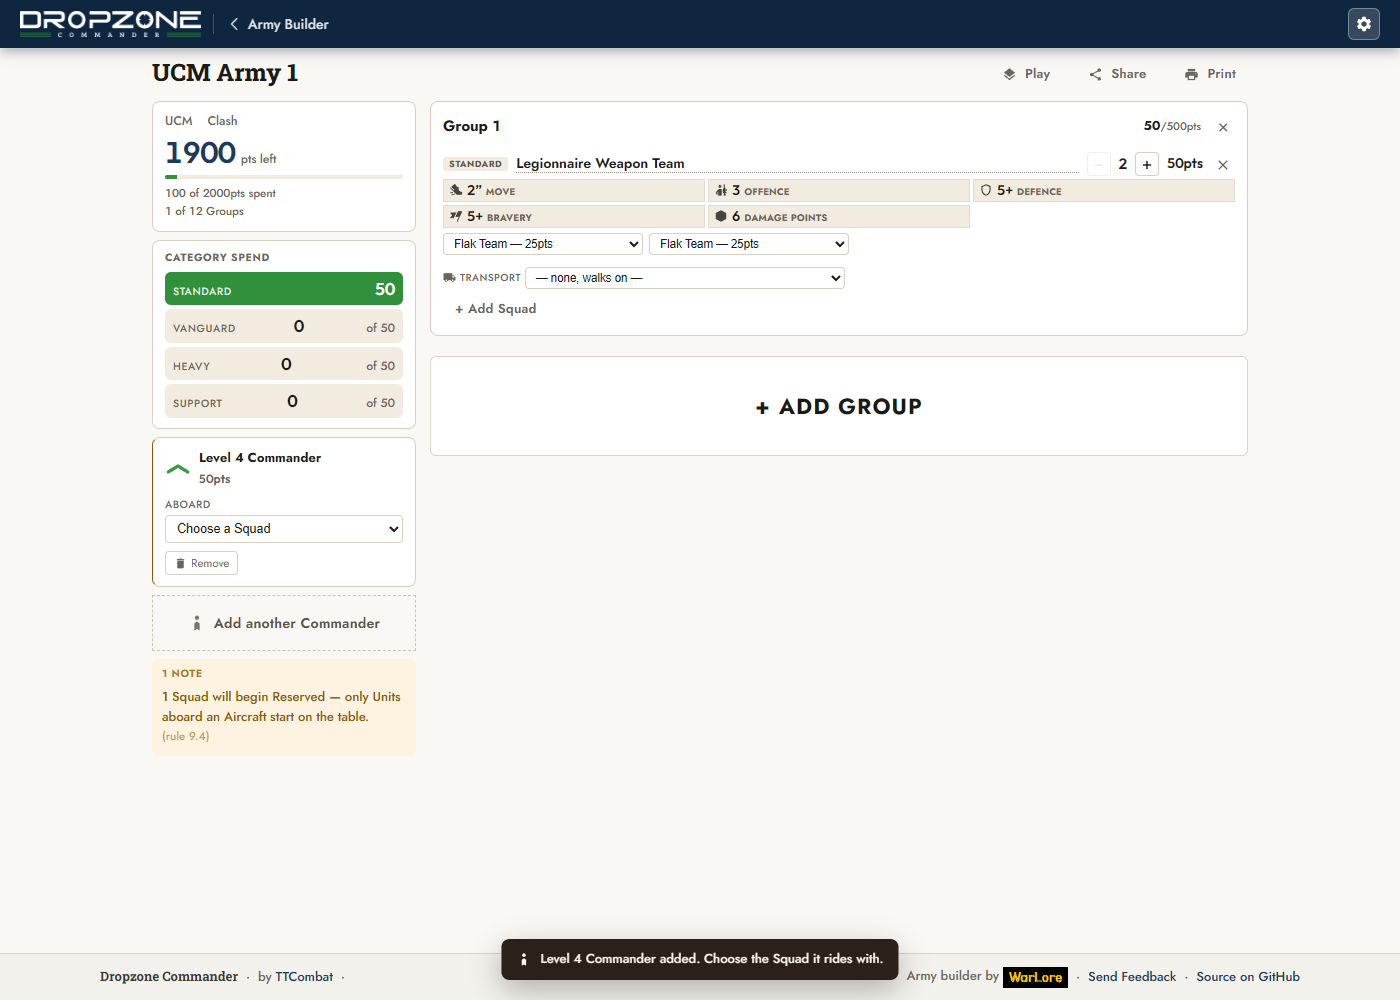
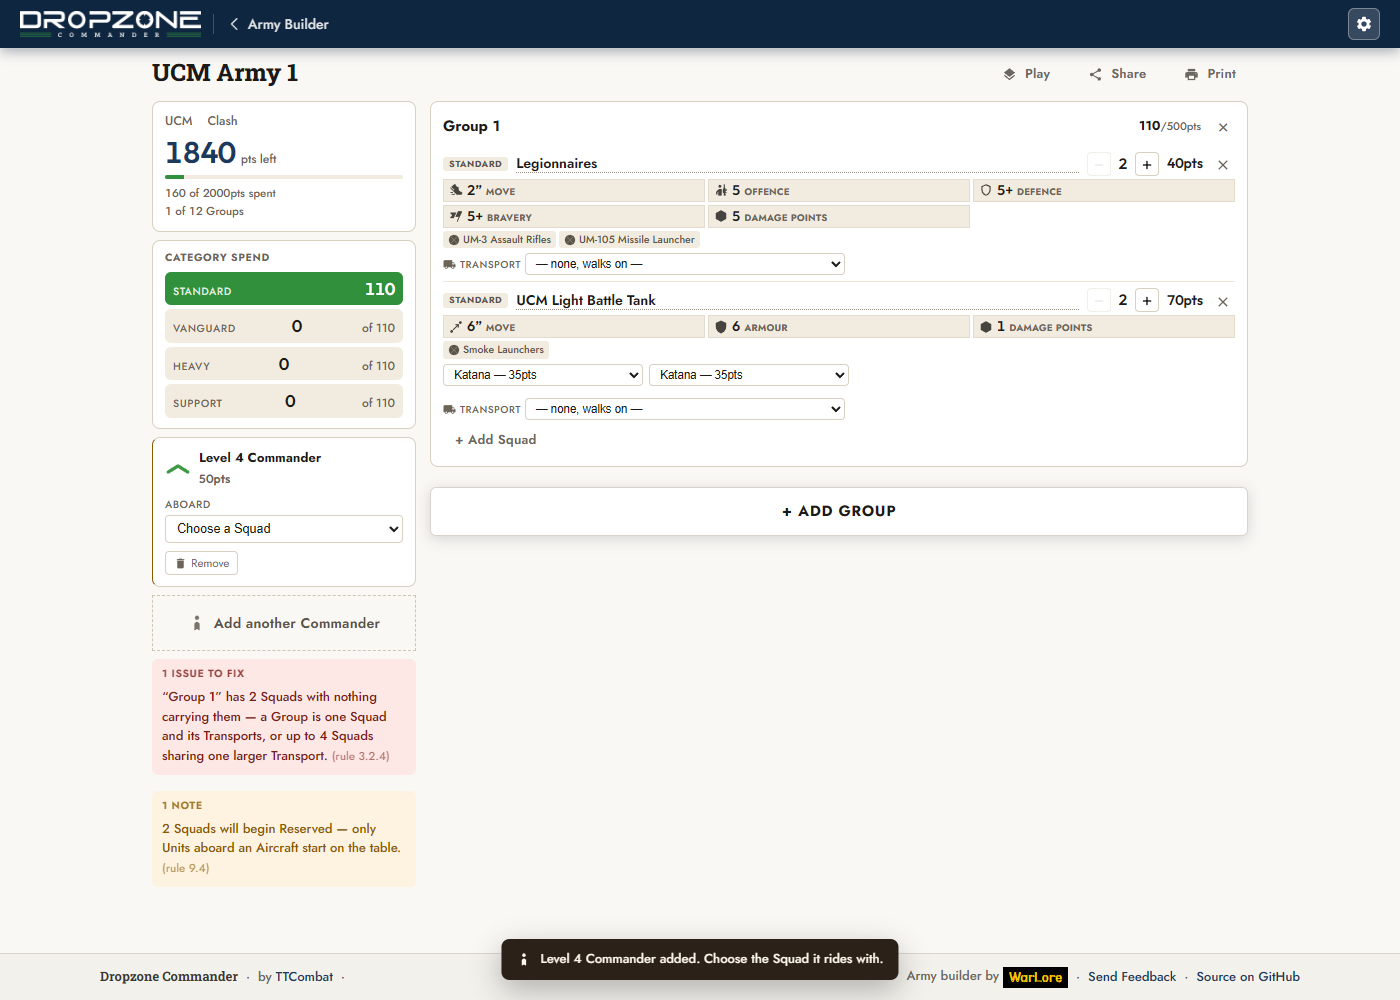
Fix the two broken things, add real sorting, stop blocking what is merely unfinished
The filter pills worked all along -- you just could not see which was on.
--acc is declared inline on .dzc-wrap and the picker is a top-level modal
outside it, so the active chip painted white text on an undefined background.
It now carries a fallback and the bar sets --acc for itself.

Typing failed because every keystroke re-rendered the whole picker body,
replacing the <input> under the caret. Only the list is redrawn now.

Sorting: Price, Name, Category, Squad and Capacity, each reversible, with
filters for Rare, Unique, Variants, Carries and Auxiliary, a results bar that
also counts what is unavailable in this Group, and three empty states by
cause. Search covers names, variants, weapons and rules. A list view sits
beside the card grid for scanning rather than comparing.

Add Group is sticky at the bottom and smaller -- it no longer has to shout
from off-screen to be reachable.

And Group composition is reported, not blocked. A lone Transport is
UNFINISHED, not illegal; you are probably about to fill it. The line is
whether adding something else could put it right: a second Rare Squad never
can, so it stays refused, while a Group that does not yet make sense is
reported when you stop building. Transports can be picked first and filled
after, which is how the Albatross case is meant to work.

Two tests changed because the behaviour they asserted was explicitly
overruled: transports may now start a Group, and a lone one is reported rather
than refused.

diff --git a/js/dzc-builder.js b/js/dzc-builder.js
@@ -22,7 +22,7 @@
   const accentOf = f => (FACTIONS.find(x => x.id === f) || {}).accent || '#1b3a5c';
 
   let current = null;                 // the army being edited
-  let picker = { groupId: null, category: 'All', search: '' };
+  let picker = { groupId: null, category: 'All', search: '', sort: 'points', dir: 1, view: 'grid', filters: [] };
 
   // ------------------------------------------------------------- army list
 
@@ -588,21 +588,112 @@
      * is explicit that choosing a Transport alongside a Squad is how a Group
      * forms. canAddUnit refuses the ones that make no sense here, and says
      * which rule refuses them. */
+    const cats = ['All', 'Standard', 'Vanguard', 'Heavy', 'Support', 'Transport'];
+    /* --acc is declared inline on .dzc-wrap, and this modal lives outside it,
+     * so the active chip was painting white text on an undefined background —
+     * the filters worked, you just could not see which one was on. */
+    document.getElementById('dzc-picker-body').innerHTML = `
+      <div class="dzc-pick-bar" style="--acc:${accentOf(a.faction)}">
+        <div class="dzc-search-row">${window.DZCIcon('search')}
+          <input class="dzc-search" id="dzc-pick-search" type="search"
+                 placeholder="Search units, variants, weapons or rules"
+                 value="${esc(picker.search)}"
+                 oninput="DZCBuilder.pickerSearch(this.value)" aria-label="Search units">
+          <button type="button" class="dzc-view-toggle" onclick="DZCBuilder.pickerView()"
+                  title="${picker.view === 'grid' ? 'Show as a list' : 'Show as cards'}"
+                  >${window.DZCIcon(picker.view === 'grid' ? 'list_alt' : 'grid_view', { size: 16 })}</button>
+        </div>
+        <div class="dzc-chips">${cats.map(c =>
+          `<button type="button" class="dzc-chip${c === picker.category ? ' is-active' : ''}"
+            onclick="DZCBuilder.pickerCat('${c}')">${esc(c)}</button>`).join('')}</div>
+        <div class="dzc-pick-sorts">
+          <span class="dzc-pick-sortlab">Sort</span>
+          ${SORTS.map(s => `<button type="button" class="dzc-chip dzc-chip--sm${
+            s.key === picker.sort ? ' is-active' : ''}" onclick="DZCBuilder.pickerSort('${s.key}')"
+            >${esc(s.label)}${s.key === picker.sort ? (picker.dir < 0 ? ' ↓' : ' ↑') : ''}</button>`).join('')}
+          ${FILTERS.map(fl => `<button type="button" class="dzc-chip dzc-chip--sm${
+            picker.filters.indexOf(fl.key) !== -1 ? ' is-active' : ''}"
+            onclick="DZCBuilder.pickerFilter('${fl.key}')">${esc(fl.label)}</button>`).join('')}
+        </div>
+        <div class="dzc-pick-results" id="dzc-pick-results"></div>
+      </div>
+      <div class="dzc-pick-list${picker.view === 'list' ? ' is-list' : ''}" id="dzc-pick-list"></div>`;
+    renderPickList();
+  }
+
+  /* Sorting and filtering the adder. Dropfleet has Points / Name / Tonnage
+   * plus seven filters and a results bar (renderShipSelectGrid, app.js:4409);
+   * these are the DZC equivalents. Capacity is ours — it decides what a Group
+   * can be built around, which Dropfleet has no analogue for. */
+  const SORTS = [
+    { key: 'points',   label: 'Price',    get: u => unitLowPoints(u) },
+    { key: 'name',     label: 'Name',     get: u => u.name.toLowerCase() },
+    { key: 'category', label: 'Category', get: u => CATEGORY_ORDER.indexOf(u.category) },
+    { key: 'squad',    label: 'Squad',    get: u => (u.squadMax != null ? u.squadMax : -1) },
+    { key: 'capacity', label: 'Capacity', get: u => totalCapacity(u) }
+  ];
+  const FILTERS = [
+    { key: 'rare',     label: 'Rare',     test: u => !!u.rare },
+    { key: 'unique',   label: 'Unique',   test: u => !!u.unique },
+    { key: 'variants', label: 'Variants', test: u => (u.variants || []).length > 0 },
+    { key: 'carries',  label: 'Carries',  test: u => totalCapacity(u) > 0 },
+    { key: 'aux',      label: 'Auxiliary', test: u => !!u.auxiliaryTransport }
+  ];
+  const CATEGORY_ORDER = ['Standard', 'Vanguard', 'Heavy', 'Support', 'Transport', 'Generated'];
+
+  function unitLowPoints(u) {
+    if (u.points != null) return u.points;
+    const ps = (u.variants || []).map(v => v.points).filter(p => p != null);
+    return ps.length ? Math.min.apply(null, ps) : 0;
+  }
+  function totalCapacity(u) {
+    return (((u.transport || {}).capacity) || []).reduce((t, c) => t + (c.n || 0), 0);
+  }
+
+  /* Only the list is redrawn on a keystroke. Re-rendering the whole body
+   * replaced the <input>, which threw away focus and the caret — you got one
+   * character and then nothing. */
+  function renderPickList() {
+    const a = current;
+    const f = window.DZC.faction(a.faction);
+    if (!f) return;
+    const q = picker.search.trim().toLowerCase();
+
     let units = f.units.filter(u => u.selectable !== false);
     if (picker.category !== 'All') units = units.filter(u => u.category === picker.category);
+    picker.filters.forEach(k => {
+      const fl = FILTERS.find(x => x.key === k);
+      if (fl) units = units.filter(fl.test);
+    });
     if (q) units = units.filter(u => u.name.toLowerCase().includes(q)
-      || (u.variants || []).some(v => v.name.toLowerCase().includes(q)));
+      || (u.variants || []).some(v => v.name.toLowerCase().includes(q))
+      || (u.weapons || []).some(w => (w.name || '').toLowerCase().includes(q))
+      || (u.special || '').toLowerCase().includes(q));
 
-    const cats = ['All', 'Standard', 'Vanguard', 'Heavy', 'Support', 'Transport'];
-    document.getElementById('dzc-picker-body').innerHTML = `
-      <div class="dzc-search-row">${window.DZCIcon('search')}
-        <input class="dzc-search" type="search" placeholder="Search units" value="${esc(picker.search)}"
-               oninput="DZCBuilder.pickerSearch(this.value)" aria-label="Search units"></div>
-      <div class="dzc-chips">${cats.map(c =>
-        `<button type="button" class="dzc-chip${c === picker.category ? ' is-active' : ''}"
-          onclick="DZCBuilder.pickerCat('${c}')">${esc(c)}</button>`).join('')}</div>
-      <div class="dzc-pick-list">${units.map(u => pickCard(u, a)).join('')
-        || '<p class="dzc-empty">Nothing matches.</p>'}</div>`;
+    const s = SORTS.find(x => x.key === picker.sort) || SORTS[0];
+    units = units.slice().sort((x, y) => {
+      const ax = s.get(x), ay = s.get(y);
+      return (ax < ay ? -1 : ax > ay ? 1 : x.name.localeCompare(y.name)) * picker.dir;
+    });
+
+    const list = document.getElementById('dzc-pick-list');
+    if (list) {
+      list.className = 'dzc-pick-list' + (picker.view === 'list' ? ' is-list' : '');
+      list.innerHTML = units.map(u => pickCard(u, a)).join('')
+        || `<p class="dzc-empty">${q ? `Nothing matches “${esc(picker.search)}”.`
+            : picker.filters.length ? 'Nothing matches those filters.'
+            : 'Nothing in this category.'}</p>`;
+    }
+    const bar = document.getElementById('dzc-pick-results');
+    if (bar) {
+      const filtered = q || picker.filters.length || picker.category !== 'All';
+      const blocked = units.filter(u => !window.DZCArmy.canAddUnit(a, picker.groupId, u.id).ok).length;
+      bar.innerHTML = filtered || blocked
+        ? `<span>${units.length} unit${units.length === 1 ? '' : 's'}${
+            blocked ? `, ${blocked} unavailable here` : ''}</span>${
+            filtered ? '<button type="button" onclick="DZCBuilder.pickerClear()">Clear</button>' : ''}`
+        : '';
+    }
   }
 
   /* A picker card carries what you need to decide without opening anything:
@@ -661,29 +752,40 @@
      * carries something already here. assignTransport builds the Transport
      * Squad, links it and derives how many are needed to take it full, which
      * is the whole of 3.2.4 in one call. */
+    /* Transport-first is a real way to build: buy the Albatross, then fill it.
+     * So a Transport only routes through assignTransport when there is already
+     * something here waiting for a ride; otherwise it is simply added, and
+     * whatever comes next will go aboard it. */
     if (u.category === 'Transport') {
       const target = g.squads.find(s => {
         const su = window.DZCArmy.unitOf(current, s);
         return su && su.category !== 'Transport' && !s.carriedBy && window.DZC.canCarry(u, su);
       });
-      if (!target) return say(`Nothing in this Group needs ${u.name}.`);
-      const r = window.DZCArmy.assignTransport(current, target.id, unitId);
-      if (!r.ok) return say(r.reason);
-      await renderBuilder(current.id);
-      await renderPicker();
-      return say(`${u.name} added, carrying ${window.DZCArmy.unitOf(current, target).name}.`, 'local_shipping');
+      if (target) {
+        const r = window.DZCArmy.assignTransport(current, target.id, unitId);
+        if (!r.ok) return say(r.reason);
+        await renderBuilder(current.id);
+        await renderPicker();
+        return say(`${u.name} added, carrying ${window.DZCArmy.unitOf(current, target).name}.`, 'local_shipping');
+      }
     }
 
     const s = window.DZCArmy.addSquad(current, picker.groupId, unitId);
     if (!s) return;                       // refused; the picker already said why
 
-    /* A second fighting Squad is only here because a Transport already in the
-     * Group has room for it (3.2.4.1), so put it aboard rather than leaving it
+    /* Anything joining a Group that already has a Transport with room is here
+     * BECAUSE of that room (3.2.4.1), so put it aboard rather than leaving it
      * standing next to the thing it is supposed to be riding in. */
     const carrier = g.squads.find(x => {
       const xu = window.DZCArmy.unitOf(current, x);
-      return x.id !== s.id && xu && (xu.category === 'Transport' || xu.auxiliaryTransport)
-        && window.DZC.canCarry(xu, u);
+      if (x.id === s.id || x.carriedBy || !xu) return false;
+      if (!(xu.category === 'Transport' || xu.auxiliaryTransport)) return false;
+      if (!window.DZC.canCarry(xu, u)) return false;
+      const aboard = g.squads.filter(y => y.carriedBy === x.id && y.id !== s.id)
+        .map(y => ({ unit: window.DZCArmy.unitOf(current, y), count: y.models.length }))
+        .filter(y => y.unit);
+      aboard.push({ unit: u, count: s.models.length });
+      return window.DZC.loadCheck(xu, aboard).ok;
     });
     if (carrier) s.carriedBy = carrier.id;
 
@@ -930,8 +1032,23 @@
         say('Could not build a share link: ' + e.message);
       }
     },
-    pickerSearch: v => { picker.search = v; renderPicker(); },
+    // Only the list is redrawn: re-rendering the body would replace the
+    // <input> under the caret and swallow every character after the first.
+    pickerSearch: v => { picker.search = v; renderPickList(); },
     pickerCat: c => { picker.category = c; renderPicker(); },
+    pickerSort: k => {
+      if (picker.sort === k) picker.dir = -picker.dir; else { picker.sort = k; picker.dir = 1; }
+      renderPicker();
+    },
+    pickerFilter: k => {
+      const i = picker.filters.indexOf(k);
+      if (i === -1) picker.filters.push(k); else picker.filters.splice(i, 1);
+      renderPicker();
+    },
+    pickerView: () => { picker.view = picker.view === 'grid' ? 'list' : 'grid'; renderPicker(); },
+    pickerClear: () => {
+      picker.search = ''; picker.filters = []; picker.category = 'All'; renderPicker();
+    },
     closePicker: () => document.getElementById('dzc-picker').classList.remove('active'),
     closeNew: () => document.getElementById('dzc-new').classList.remove('active')
   };

diff --git a/js/dzc-army.js b/js/dzc-army.js
@@ -290,6 +290,28 @@
   }
 
   /* May this unit be added to this Group right now? */
+  /* Does any Transport in this Group have space left for one more of `unit`?
+   *
+   * Shape alone is not enough — a Bear APC carries 3 squares, and once three
+   * Legionnaires are aboard a fourth still "matches" but does not fit. So the
+   * real load is rebuilt with the candidate added and checked. A Transport
+   * that is itself being carried is skipped: its cargo is ignored, because it
+   * is already aboard something else (3.2.4.2). */
+  function roomSomewhere(army, group, unit) {
+    if (!group) return false;
+    return group.squads.some(t => {
+      const tu = unitOf(army, t);
+      if (!tu || t.carriedBy) return false;
+      if (!(tu.category === 'Transport' || tu.auxiliaryTransport)) return false;
+      if (!window.DZC.canCarry(tu, unit)) return false;
+      const aboard = group.squads.filter(x => x.carriedBy === t.id)
+        .map(x => ({ unit: unitOf(army, x), count: x.models.length }))
+        .filter(x => x.unit);
+      aboard.push({ unit: unit, count: 1 });
+      return window.DZC.loadCheck(tu, aboard).ok;
+    });
+  }
+
   function canAddUnit(army, groupId, unitId) {
     const u = window.DZC.unit(army.faction, unitId);
     if (!u) return { ok: false, reason: 'Unknown unit.' };
@@ -314,32 +336,13 @@
     const squads = (group && group.squads) || [];
     const occupied = squads.length > 0;
 
-    if (u.category === 'Transport') {
-      if (!occupied) {
-        return { ok: false, reason: `${u.name} is a Transport — choose the Squad it carries first (3.2.4).` };
-      }
-      const carriable = squads.some(s => {
-        const su = unitOf(army, s);
-        return su && su.category !== 'Transport' && !s.carriedBy && window.DZC.canCarry(u, su);
-      });
-      if (!carriable) {
-        return { ok: false, reason: `Nothing in this Group needs ${u.name} — its symbol does not match anything here (3.2.4.2).` };
-      }
-    } else if (occupied) {
-      // A second fighting Squad only belongs here if a Transport already in the
-      // Group has room for it — that is what makes them one Group (3.2.4.1).
-      const riders = squads.filter(s => s.carriedBy).length;
-      const roomy = squads.some(s => {
-        const su = unitOf(army, s);
-        if (!su || !(su.category === 'Transport' || su.auxiliaryTransport)) return false;
-        return window.DZC.canCarry(su, u);
-      });
-      if (!roomy) {
-        return { ok: false, reason: 'A Group is one Squad and its Transports — add a Transport here first, or start a new Group (3.2.4).' };
-      }
-      if (riders >= 4) {
-        return { ok: false, reason: 'At most 4 Squads may share one Transport (3.2.4.1).' };
-      }
+    // The 4-Squad ceiling is the one composition rule that can never come good
+    // by adding something else, so it is the only one blocked here. Everything
+    // else about a Group is a question of what it looks like when you have
+    // FINISHED — a lone Transport is unfinished, not illegal, and you may well
+    // be about to put something in it. Those are reported by validate().
+    if (occupied && u.category !== 'Transport' && squads.filter(s => s.carriedBy).length >= 4) {
+      return { ok: false, reason: 'At most 4 Squads may share one Transport (3.2.4.1).' };
     }
 
     const taken = squadsNamed(army, u.name);
@@ -728,6 +731,23 @@
           if (!chk.ok) errors.push({ rule: '3.2.4.3', msg: chk.reason });
         }
       });
+
+      /* A Group is one Squad and its Transports, or up to 4 Squads sharing one
+       * larger Transport (3.2.4 / 3.2.4.1). Two Squads standing side by side
+       * with nothing carrying either of them is not a Group — but it is a
+       * perfectly ordinary state to pass through while building, so it is
+       * reported when you are done rather than blocked as you go. */
+      const loose = g.squads.filter(s => {
+        const u = unitOf(army, s);
+        return u && u.category !== 'Transport' && !s.carriedBy;
+      });
+      if (loose.length > 1) {
+        errors.push({
+          rule: '3.2.4',
+          msg: `“${g.name}” has ${loose.length} Squads with nothing carrying them — a Group is one Squad and its Transports, `
+            + 'or up to 4 Squads sharing one larger Transport.'
+        });
+      }
 
       // Up to 4 Squads may share ONE Transport (3.2.4.1).
       g.squads.forEach(s => {

diff --git a/css/dzc.css b/css/dzc.css
@@ -40,7 +40,12 @@
   transition: background .12s, color .12s, border-color .12s;
 }
 .dzc-chip:hover { border-color: var(--acc); color: var(--ink, #24201c); }
-.dzc-chip.is-active { background: var(--acc); border-color: var(--acc); color: #fff; }
+/* The fallback matters: --acc is declared inline on .dzc-wrap, and the picker
+   modal lives outside it, so without one the active chip painted white on
+   nothing and the filters looked broken. */
+.dzc-chip.is-active {
+  background: var(--acc, #1b3a5c); border-color: var(--acc, #1b3a5c); color: #fff;
+}
 .dzc-count { font-size: 12px; color: var(--ink-2, #6b6459); margin: 6px 0 16px; }
 .dzc-empty { padding: 32px 0; text-align: center; color: var(--ink-2, #6b6459); }
 
@@ -423,11 +428,62 @@
 .dzc-carry, .dzc-cmdr { font-size: 10px; text-transform: uppercase; letter-spacing: .05em; color: var(--ink-2, #6b6459); display: inline-flex; align-items: center; gap: 4px; }
 .dzc-capacity { margin: 4px 0 0; font-size: 11px; font-style: italic; color: var(--ink-2, #6b6459); }
 /* Adding a Group is the main move in this screen, so it is sized like one. */
+/* Sticky, so it stays reachable down a long army instead of living at the
+   bottom of the list. Smaller than it was, because it no longer has to shout
+   from off-screen. */
 .dzc-add-group {
+  position: sticky; bottom: 12px; z-index: 3;
   margin-top: 8px; width: 100%;
-  padding: 34px 24px;
-  font-size: 22px; font-weight: 700; letter-spacing: .05em; text-transform: uppercase;
+  padding: 13px 20px;
+  font-size: 15px; font-weight: 700; letter-spacing: .05em; text-transform: uppercase;
+  background: var(--surface-2, #fff);
+  box-shadow: 0 3px 14px rgba(27,26,23,.16);
 }
+
+/* ── picker toolbar ── */
+.dzc-pick-bar {
+  position: sticky; top: 0; z-index: 2;
+  padding-bottom: 6px; margin-bottom: 2px;
+  background: var(--surface, #faf7f0);
+}
+.dzc-pick-sorts { display: flex; flex-wrap: wrap; align-items: center; gap: 4px; margin-top: 5px; }
+.dzc-pick-sortlab {
+  font: 700 10px/1 var(--font-condensed, 'Jost', sans-serif);
+  text-transform: uppercase; letter-spacing: .06em; color: var(--ink-2, #6b6459);
+  margin-right: 2px;
+}
+.dzc-chip--sm { padding: 4px 8px; font-size: 11px; }
+.dzc-pick-results {
+  display: flex; align-items: center; gap: 8px; margin-top: 5px;
+  font-size: 11.5px; color: var(--ink-2, #6b6459);
+}
+.dzc-pick-results:empty { display: none; }
+.dzc-pick-results button {
+  padding: 2px 8px; cursor: pointer; font-size: 11px;
+  border: 1px solid var(--line, #d8d0c0); background: transparent; color: inherit;
+}
+.dzc-view-toggle {
+  flex: 0 0 auto; display: inline-flex; align-items: center; justify-content: center;
+  width: 30px; height: 30px; cursor: pointer;
+  border: 1px solid var(--line, #d8d0c0); background: var(--surface-2, #fff);
+  color: var(--ink-2, #5b544a);
+}
+.dzc-view-toggle:hover { border-color: var(--acc); color: var(--ink, #24201c); }
+
+/* List view: one row per unit, for scanning names and prices rather than
+   comparing cards. */
+.dzc-pick-list.is-list { grid-template-columns: 1fr; gap: 3px; }
+.dzc-pick-list.is-list .dzc-pick { flex-direction: row; align-items: center; gap: 10px; padding: 6px 8px; }
+.dzc-pick-list.is-list .dzc-pick-open { display: flex; align-items: center; gap: 10px; flex: 1 1 auto; }
+.dzc-pick-list.is-list .dzc-pick-art,
+.dzc-pick-list.is-list .dzc-pick-noart { width: 46px; height: 34px; margin: 0; flex: 0 0 auto; }
+.dzc-pick-list.is-list .dzc-pick-head { flex: 1 1 auto; min-width: 0; }
+.dzc-pick-list.is-list .dzc-stats,
+.dzc-pick-list.is-list .dzc-pick-wpns,
+.dzc-pick-list.is-list .dzc-pick-rules,
+.dzc-pick-list.is-list .dzc-pick-variants { display: none; }
+.dzc-pick-list.is-list .dzc-pick-add { width: auto; margin: 0; padding: 7px 14px; flex: 0 0 auto; }
+.dzc-pick-list.is-list .dzc-pick-blocked { margin: 0; flex: 0 0 auto; max-width: 46%; }
 
 .dzc-icon-btn { flex: 0 0 auto; width: 24px; height: 24px; border: 0; border-radius: 4px; cursor: pointer; background: transparent; color: var(--ink-2, #6b6459); font-size: 18px; line-height: 1; }
 .dzc-icon-btn:hover { background: #fde8e6; color: #b3261e; }

diff --git a/js/dzc-icons.js b/js/dzc-icons.js
@@ -82,6 +82,7 @@
     military_tech: 'M12 2c-1.66 0-3 1.34-3 3s1.34 3 3 3 3-1.34 3-3-1.34-3-3-3zm0 8-3.5 2.5V22l3.5-2 3.5 2v-9.5L12 10z',
     // Army / roster list.
     list_alt: 'M19 3H5c-1.1 0-2 .9-2 2v14c0 1.1.9 2 2 2h14c1.1 0 2-.9 2-2V5c0-1.1-.9-2-2-2zm0 16H5V5h14v14zM7 11h2v2H7zm0-4h2v2H7zm0 8h2v2H7zm4-8h6v2h-6zm0 4h6v2h-6zm0 4h6v2h-6z',
+    grid_view: 'M4 4h7v7H4zM13 4h7v7h-7zM4 13h7v7H4zM13 13h7v7h-7z',
     // Points / cost.
     calculate: 'M19 3H5c-1.1 0-2 .9-2 2v14c0 1.1.9 2 2 2h14c1.1 0 2-.9 2-2V5c0-1.1-.9-2-2-2zM7 7h4v2H7V7zm10 10h-4v-2h4v2zm0-4h-4v-2h4v2zm-6 4H7v-2h4v2zm0-4H7v-2h4v2z'
   };
